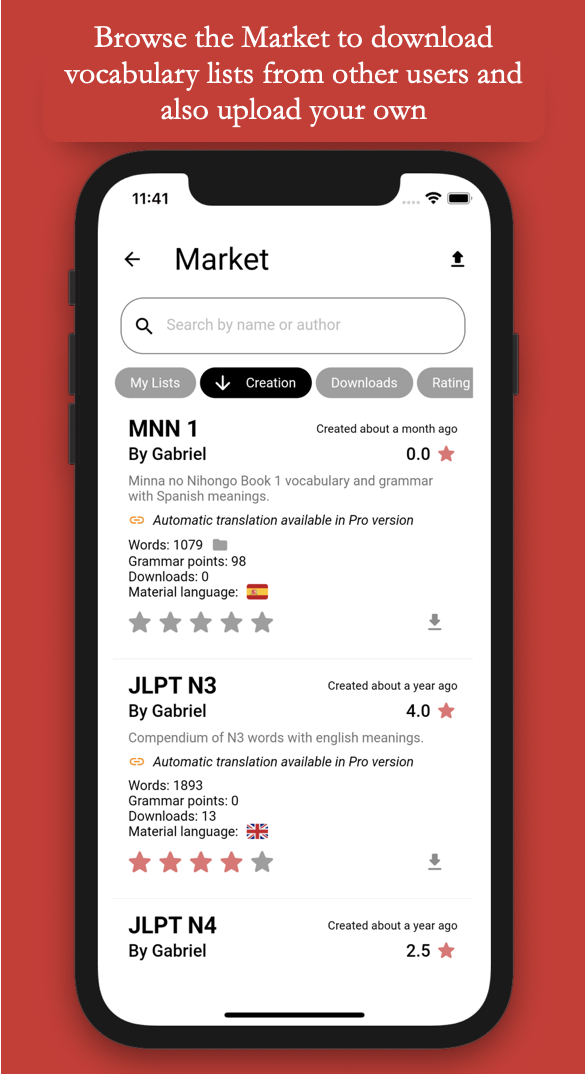
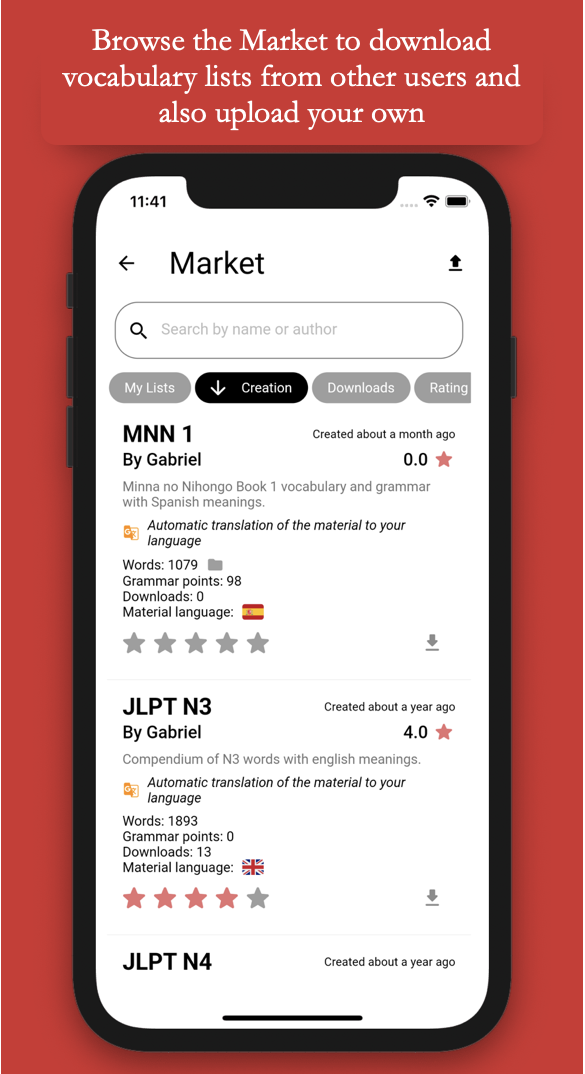
Automatic Translation on Market Free

diff --git a/lib/infrastructure/market/market_repository_impl.dart b/lib/infrastructure/market/market_repository_impl.dart
@@ -67,7 +67,7 @@ class MarketRepositoryImpl implements IMarketRepository {
 
   @override
   Future<String> downloadFolderFromMarketPlace(
-      String id, String? targetLanguage) async {
+      String id, String targetLanguage) async {
     User? user = _auth.currentUser;
     await user?.reload();
 
@@ -130,35 +130,29 @@ class MarketRepositoryImpl implements IMarketRepository {
         if (wordSnapshot.size > 0) {
           for (var m in wordSnapshot.docs) {
             final word = Word.fromJson(m.data());
-            final updatedWord = targetLanguage == null
-                ? word
-                : word.copyWithTranslation(
-                    meaning: targetLanguage != originLanguage
-                        ? await _translateRepository.translate(
-                            word.meaning,
-                            targetLanguage,
-                            sourceLanguge: originLanguage,
-                          )
-                        : null,
-                  );
-            backUpWords.add(updatedWord);
+            backUpWords.add(word.copyWithTranslation(
+              meaning: targetLanguage != originLanguage
+                  ? await _translateRepository.translate(
+                      word.meaning,
+                      targetLanguage,
+                      sourceLanguge: originLanguage,
+                    )
+                  : null,
+            ));
           }
         }
         if (grammarSnapshot.size > 0) {
           for (var m in grammarSnapshot.docs) {
             final grammar = GrammarPoint.fromJson(m.data());
-            final updatedGrammar = targetLanguage == null
-                ? grammar
-                : grammar.copyWithTranslation(
-                    definition: targetLanguage != originLanguage
-                        ? await _translateRepository.translate(
-                            grammar.definition,
-                            targetLanguage,
-                            sourceLanguge: originLanguage,
-                          )
-                        : null,
-                  );
-            backUpGrammar.add(updatedGrammar);
+            backUpGrammar.add(grammar.copyWithTranslation(
+              definition: targetLanguage != originLanguage
+                  ? await _translateRepository.translate(
+                      grammar.definition,
+                      targetLanguage,
+                      sourceLanguge: originLanguage,
+                    )
+                  : null,
+            ));
           }
         }
         if (listSnapshot.size > 0) {
@@ -206,7 +200,7 @@ class MarketRepositoryImpl implements IMarketRepository {
 
   @override
   Future<String> downloadListFromMarketPlace(
-      String id, String? targetLanguage) async {
+      String id, String targetLanguage) async {
     User? user = _auth.currentUser;
     await user?.reload();
 
@@ -255,18 +249,15 @@ class MarketRepositoryImpl implements IMarketRepository {
         if (wordSnapshot.size > 0) {
           for (int x = 0; x < wordSnapshot.size; x++) {
             final word = Word.fromJson(wordSnapshot.docs[x].data());
-            final updatedWord = targetLanguage == null
-                ? word
-                : word.copyWithTranslation(
-                    meaning: targetLanguage != originLanguage
-                        ? await _translateRepository.translate(
-                            word.meaning,
-                            targetLanguage,
-                            sourceLanguge: originLanguage,
-                          )
-                        : null,
-                  );
-            backUpWords.add(updatedWord);
+            backUpWords.add(word.copyWithTranslation(
+              meaning: targetLanguage != originLanguage
+                  ? await _translateRepository.translate(
+                      word.meaning,
+                      targetLanguage,
+                      sourceLanguge: originLanguage,
+                    )
+                  : null,
+            ));
           }
         }
 
@@ -274,18 +265,15 @@ class MarketRepositoryImpl implements IMarketRepository {
           for (int x = 0; x < grammarSnapshot.size; x++) {
             final grammar =
                 GrammarPoint.fromJson(grammarSnapshot.docs[x].data());
-            final updatedGrammar = targetLanguage == null
-                ? grammar
-                : grammar.copyWithTranslation(
-                    definition: targetLanguage != originLanguage
-                        ? await _translateRepository.translate(
-                            grammar.definition,
-                            targetLanguage,
-                            sourceLanguge: originLanguage,
-                          )
-                        : null,
-                  );
-            backUpGrammar.add(updatedGrammar);
+            backUpGrammar.add(grammar.copyWithTranslation(
+              definition: targetLanguage != originLanguage
+                  ? await _translateRepository.translate(
+                      grammar.definition,
+                      targetLanguage,
+                      sourceLanguge: originLanguage,
+                    )
+                  : null,
+            ));
           }
         }
 

diff --git a/lib/presentation/market_page/widgets/market_list_tile.dart b/lib/presentation/market_page/widgets/market_list_tile.dart
@@ -2,14 +2,11 @@ import 'package:easy_localization/easy_localization.dart';
 import 'package:flutter/material.dart';
 import 'package:flutter_bloc/flutter_bloc.dart';
 import 'package:kanpractice/application/auth/auth_bloc.dart';
-import 'package:kanpractice/application/purchases/purchases_bloc.dart';
 import 'package:kanpractice/domain/market/market.dart';
-import 'package:kanpractice/presentation/core/routing/pages.dart';
 import 'package:kanpractice/presentation/core/widgets/kp_alert_dialog.dart';
 import 'package:kanpractice/presentation/core/util/consts.dart';
 import 'package:kanpractice/presentation/core/util/utils.dart';
 import 'package:kanpractice/presentation/core/widgets/kp_language_flag.dart';
-import 'package:kanpractice/presentation/core/widgets/kp_pro_icon.dart';
 import 'package:kanpractice/presentation/market_page/widgets/market_list_rating.dart';
 
 class MarketListTile extends StatelessWidget {
@@ -101,57 +98,27 @@ class MarketListTile extends StatelessWidget {
       crossAxisAlignment: CrossAxisAlignment.start,
       children: [
         Text(list.description, overflow: TextOverflow.ellipsis, maxLines: 5),
-        BlocBuilder<PurchasesBloc, PurchasesState>(
-          builder: (context, state) {
-            return state.maybeWhen(
-              updatedToPro: () => Padding(
-                padding: const EdgeInsets.only(top: KPMargins.margin8),
-                child: Row(
-                  children: [
-                    Icon(
-                      Icons.g_translate_rounded,
-                      color: Colors.amber.shade800,
-                      size: 18,
-                    ),
-                    const SizedBox(width: KPMargins.margin8),
-                    Expanded(
-                      child: Text("market_automatic_translation".tr(),
-                          overflow: TextOverflow.ellipsis,
-                          maxLines: 4,
-                          style: Theme.of(context)
-                              .textTheme
-                              .bodyMedium
-                              ?.copyWith(fontStyle: FontStyle.italic)),
-                    ),
-                  ],
-                ),
+        Padding(
+          padding: const EdgeInsets.only(top: KPMargins.margin8),
+          child: Row(
+            children: [
+              Icon(
+                Icons.g_translate_rounded,
+                color: Colors.amber.shade800,
+                size: 18,
               ),
-              orElse: () => GestureDetector(
-                onTap: () {
-                  Navigator.of(context).pushNamed(KanPracticePages.storePage);
-                },
-                child: Padding(
-                  padding: const EdgeInsets.only(top: KPMargins.margin8),
-                  child: Row(
-                    children: [
-                      const KPProIcon(),
-                      const SizedBox(width: KPMargins.margin8),
-                      Expanded(
-                        child: Text(
-                            "pro_update_market_automatic_translation".tr(),
-                            overflow: TextOverflow.ellipsis,
-                            maxLines: 4,
-                            style: Theme.of(context)
-                                .textTheme
-                                .bodyMedium
-                                ?.copyWith(fontStyle: FontStyle.italic)),
-                      ),
-                    ],
-                  ),
-                ),
+              const SizedBox(width: KPMargins.margin8),
+              Expanded(
+                child: Text("market_automatic_translation".tr(),
+                    overflow: TextOverflow.ellipsis,
+                    maxLines: 4,
+                    style: Theme.of(context)
+                        .textTheme
+                        .bodyMedium
+                        ?.copyWith(fontStyle: FontStyle.italic)),
               ),
-            );
-          },
+            ],
+          ),
         ),
         Padding(
           padding: const EdgeInsets.only(top: KPMargins.margin8),

diff --git a/lib/presentation/market_page/market_page.dart b/lib/presentation/market_page/market_page.dart
@@ -2,7 +2,6 @@ import 'package:easy_localization/easy_localization.dart';
 import 'package:flutter/material.dart';
 import 'package:flutter_bloc/flutter_bloc.dart';
 import 'package:kanpractice/application/market/market_bloc.dart';
-import 'package:kanpractice/application/purchases/purchases_bloc.dart';
 import 'package:kanpractice/presentation/core/routing/pages.dart';
 import 'package:kanpractice/presentation/core/types/market_filters.dart';
 import 'package:kanpractice/domain/market/market.dart';
@@ -225,12 +224,6 @@ class _MarketPageState extends State<MarketPage>
                                   isManaging: _currentAppliedFilter ==
                                       MarketFilters.mine,
                                   onDownload: (listId, isFolder) {
-                                    String? language = context
-                                            .read<PurchasesBloc>()
-                                            .state is! PurchasesUpdatedToPro
-                                        ? null
-                                        : WidgetsBinding.instance.window.locale
-                                            .languageCode;
                                     context
                                         .read<MarketBloc>()
                                         .add(MarketEventDownload(
@@ -238,7 +231,8 @@ class _MarketPageState extends State<MarketPage>
                                           isFolder,
                                           _currentAppliedFilter,
                                           _currentAppliedOrder,
-                                          language,
+                                          WidgetsBinding.instance.window.locale
+                                              .languageCode,
                                         ));
                                   },
                                   onRemove: (listId, isFolder) {

diff --git a/lib/presentation/store_page/store_page.dart b/lib/presentation/store_page/store_page.dart
@@ -230,19 +230,6 @@ class _StorePageState extends State<StorePage> {
                                 )),
                               ],
                             ),
-                            const SizedBox(height: KPMargins.margin12),
-                            Row(
-                              crossAxisAlignment: CrossAxisAlignment.start,
-                              children: [
-                                dash,
-                                const SizedBox(width: KPMargins.margin8),
-                                Flexible(
-                                    child: KPMarkdown(
-                                  data: "updated_pro_translation_market".tr(),
-                                  shrinkWrap: true,
-                                )),
-                              ],
-                            ),
                           ],
                         ),
                       ),

diff --git a/lib/presentation/store_page/store_carousel.dart b/lib/presentation/store_page/store_carousel.dart
@@ -2,7 +2,6 @@ import 'package:carousel_slider/carousel_slider.dart';
 import 'package:flutter/material.dart';
 import 'package:kanpractice/presentation/core/util/consts.dart';
 import 'package:kanpractice/presentation/store_page/widgets/context_carousel.dart';
-import 'package:kanpractice/presentation/store_page/widgets/market_carousel.dart';
 import 'package:kanpractice/presentation/store_page/widgets/ocr_carousel.dart';
 import 'package:kanpractice/presentation/store_page/widgets/translation_carousel.dart';
 
@@ -32,7 +31,6 @@ class _StoreCarouselState extends State<StoreCarousel> {
           TranslationCarousel(locale: _locale),
           OCRCarousel(locale: _locale),
           ContextCarousel(locale: _locale),
-          MarketCarousel(locale: _locale),
         ];
       });
     });

diff --git a/lib/domain/market/i_market_repository.dart b/lib/domain/market/i_market_repository.dart
@@ -54,9 +54,9 @@ abstract class IMarketRepository {
     List<GrammarPoint> grammarPoints,
     String description,
   );
-  Future<String> downloadListFromMarketPlace(String id, String? targetLanguage);
+  Future<String> downloadListFromMarketPlace(String id, String targetLanguage);
   Future<String> downloadFolderFromMarketPlace(
-      String id, String? targetLanguage);
+      String id, String targetLanguage);
   Future<String> removeListFromMarketPlace(String id);
   Future<String> removeFolderFromMarketPlace(String id);
   Future<String> rateList(String id, double rate);

diff --git a/lib/application/market/market_event.dart b/lib/application/market/market_event.dart
@@ -49,7 +49,7 @@ class MarketEventDownload extends MarketEvent {
   final bool order;
   final String id;
   final bool isFolder;
-  final String? language;
+  final String language;
 
   const MarketEventDownload(
     this.id,
